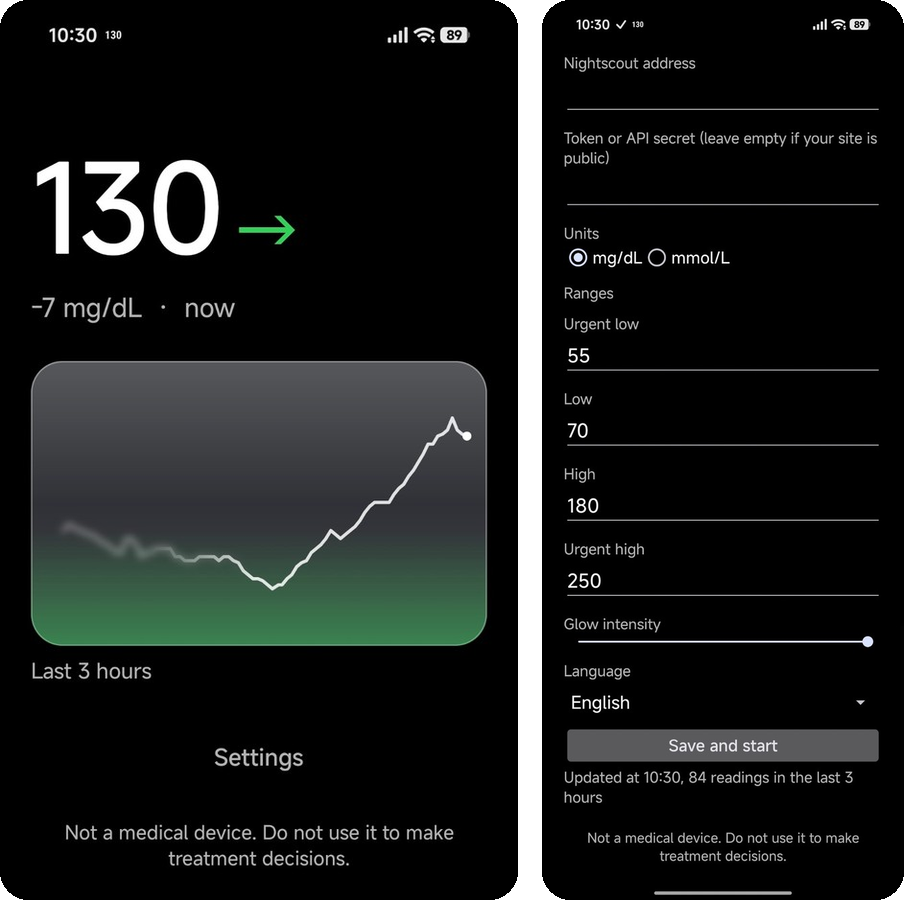
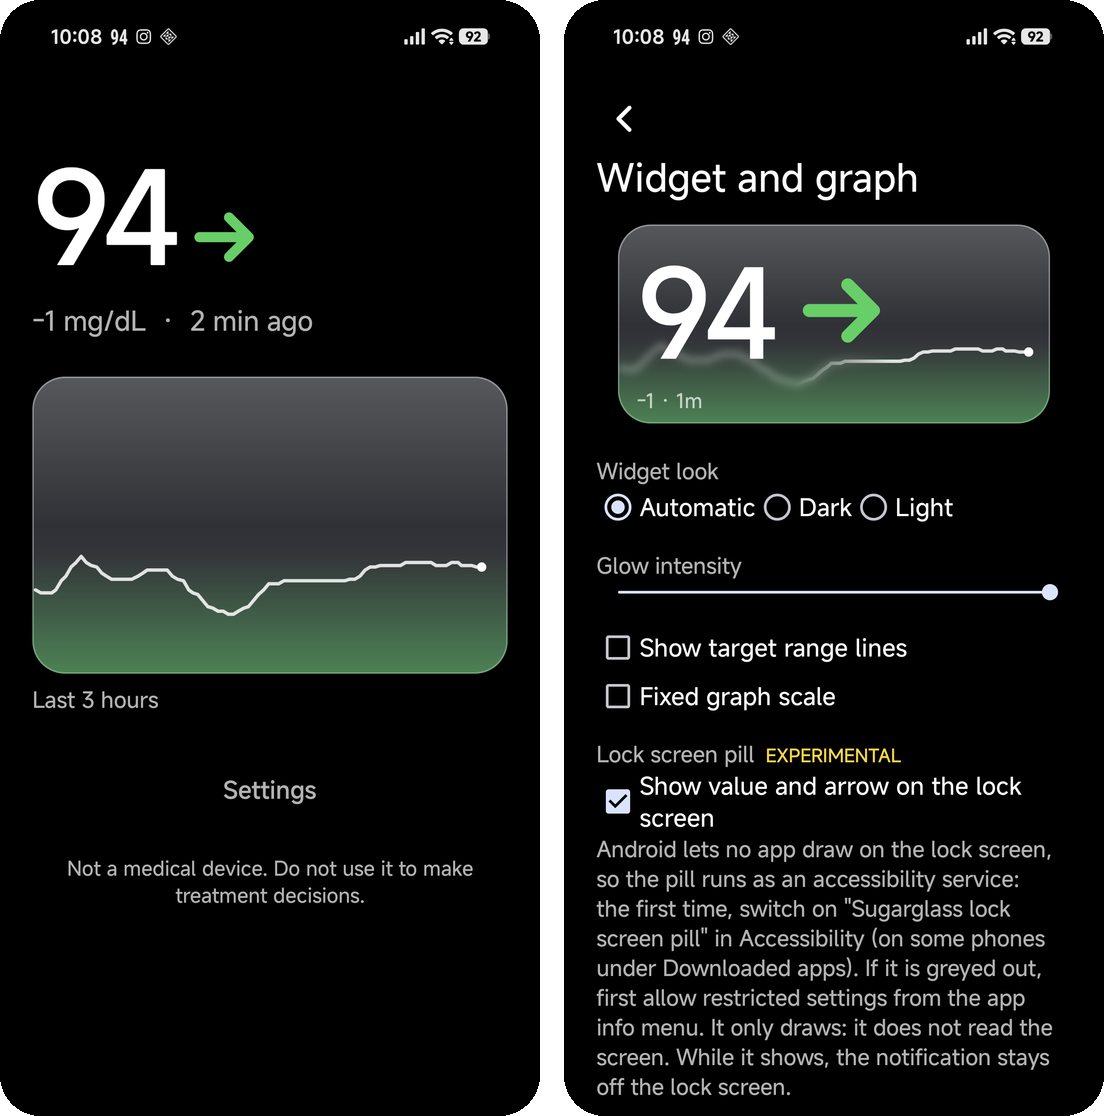
Update the README screenshots for 1.2
New widget arrows on a plain background, the paged settings with the
live preview, and the lock screen pill.

diff --git a/README.md b/README.md
@@ -23,13 +23,16 @@ A tiny Android app that shows your glucose from **Nightscout** as a glass-style 
 
 What it deliberately does **not** do: alarms, treatments, uploading, statistics. Use your CGM app or xDrip+/AAPS for those. Sugarglass only reads.
 
-## Notification and app
+## Notification, lock screen and app
 
 <p align="center">
   <img src="docs/notification.png" width="440" alt="Persistent notification with the value as its icon: 133, rising, +6, 1 min ago">
 </p>
 <p align="center">
-  <img src="docs/app.png" width="560" alt="The app: large value with the last 3 hours, and the settings for Nightscout, units, ranges, glow and language">
+  <img src="docs/lockscreen.png" width="440" alt="The experimental lock screen pill: 94 and a green arrow at the bottom of the lock screen, between the torch and camera shortcuts">
+</p>
+<p align="center">
+  <img src="docs/app.png" width="560" alt="The app: large value with the last 3 hours, and the widget settings with a live preview, look, glow, range lines, fixed scale and the lock screen pill">
 </p>
 
 ## Install
